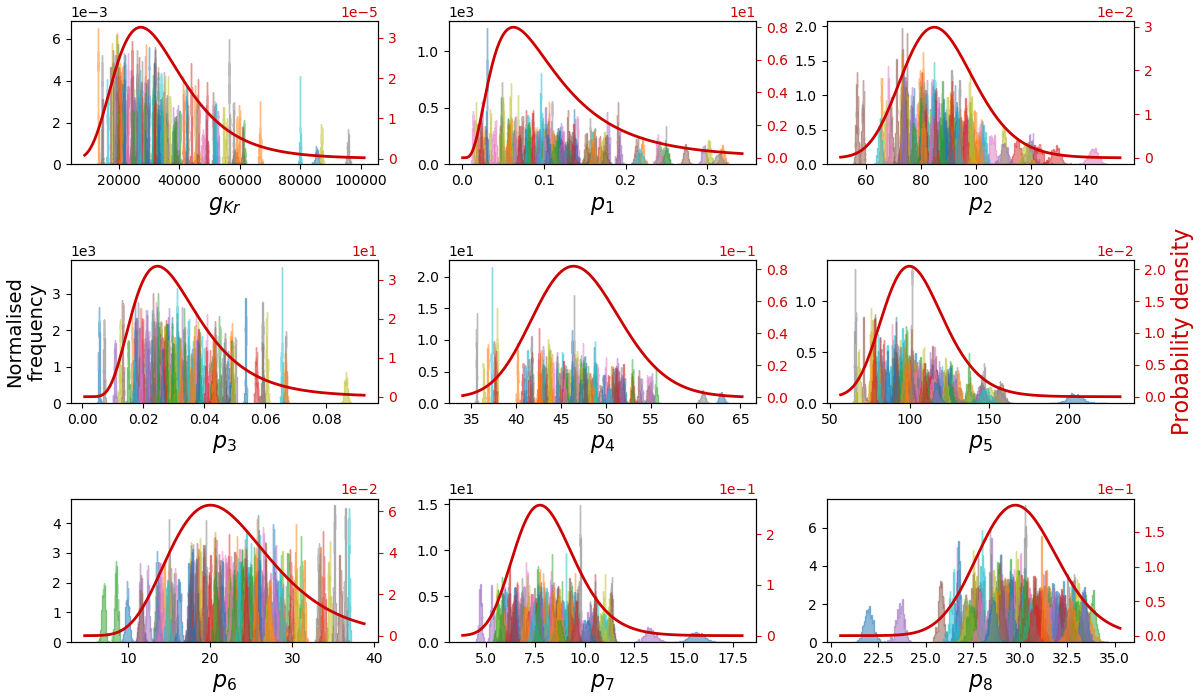
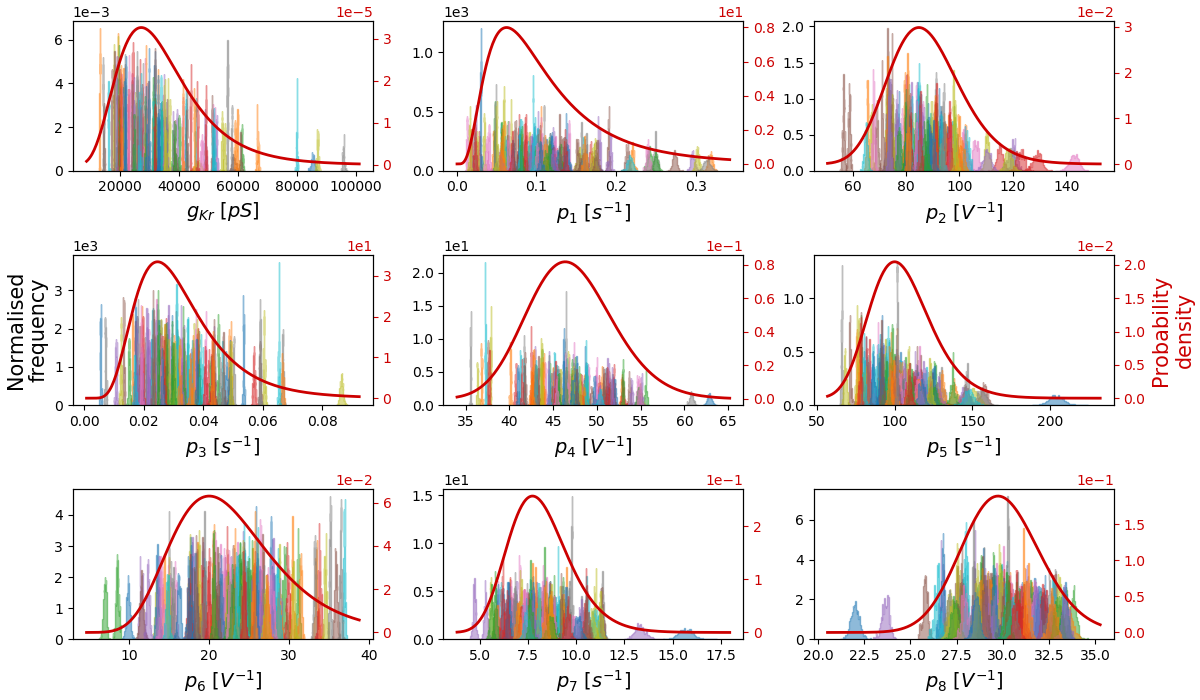
Add label units

diff --git a/lib/plot_hbm_func.py b/lib/plot_hbm_func.py
@@ -791,11 +791,11 @@ def plot_posterior_predictive_distribution(samples,
                                          style='sci', 
                                          scilimits=(-1,1))
             if aj == 2 and ai == 1:
-                ax_marginal.set_ylabel('Probability density', 
+                ax_marginal.set_ylabel('Probability\ndensity', 
                                        color='#CC0000',
-                                       fontsize=16)
+                                       fontsize=15)
         else:
-            ax_marginal.set_ylabel('Probability density', color='#CC0000')
+            ax_marginal.set_ylabel('Probability\ndensity', color='#CC0000')
         ax_marginal.tick_params('y', colors='#CC0000')
     
     plt.tight_layout()
@@ -1186,7 +1186,7 @@ def change_labels_histogram_fold(axes, names):
     # assume 3x3 and goes to left first.
     for i in range(3):
         for j in range(3):
-            axes[i, j].set_xlabel(names[i*3 + j], fontsize=16)
+            axes[i, j].set_xlabel(names[i*3 + j], fontsize=14)
     return axes
 
 
@@ -1287,7 +1287,7 @@ def histogram_fold(samples,
             # Add histogram subplot
             axes[ai, aj].set_xlabel('Parameter ' + str(i + 1))
             if normalise:
-                axes[1, 0].set_ylabel('Normalised\nfrequency', fontsize=14)
+                axes[1, 0].set_ylabel('Normalised\nfrequency', fontsize=15)
             else:
                 axes[1, 0].set_ylabel('Frequency', fontsize=16)
             if n_percentiles is None:

diff --git a/room-temperature-only/pseudohbm.py b/room-temperature-only/pseudohbm.py
@@ -46,8 +46,9 @@ saveas = 'figs/pseudoHBM-manualv2selected-herg25oc1/'
 saveaslr = 'figs/pseudoHBM-manualv2selected-herg25oc1-low-res/'
 n_non_model_param = 1
 which_hyper_func = 1
-variable_names = [r'$g_{Kr}$', r'$p_1$', r'$p_2$', r'$p_3$', r'$p_4$',
-                  r'$p_5$', r'$p_6$', r'$p_7$', r'$p_8$', 'noise']
+variable_names = [r'$g_{Kr}$ $[pS]$', r'$p_1$ $[s^{-1}]$', r'$p_2$ $[V^{-1}]$',
+        r'$p_3$ $[s^{-1}]$', r'$p_4$ $[V^{-1}]$', r'$p_5$ $[s^{-1}]$',
+        r'$p_6$ $[V^{-1}]$', r'$p_7$ $[s^{-1}]$', r'$p_8$ $[V^{-1}]$', 'noise']
 
 if not os.path.isdir(os.path.dirname(saveas)):
     os.makedirs(os.path.dirname(saveas))
@@ -294,6 +295,10 @@ else:
     plt.savefig('%shbm-plot.png' % saveas, bbox_iches='tight', dpi=300)
     # plt.savefig('%s-fig4-5.pdf'%saveas, format='pdf', bbox_inches='tight')
 plt.close('all')
+
+
+# NOTE: Below function/plot has been moved to `paper-pseudohbm-cov.py`
+sys.exit()
 
 
 print('Plotting cov...')
